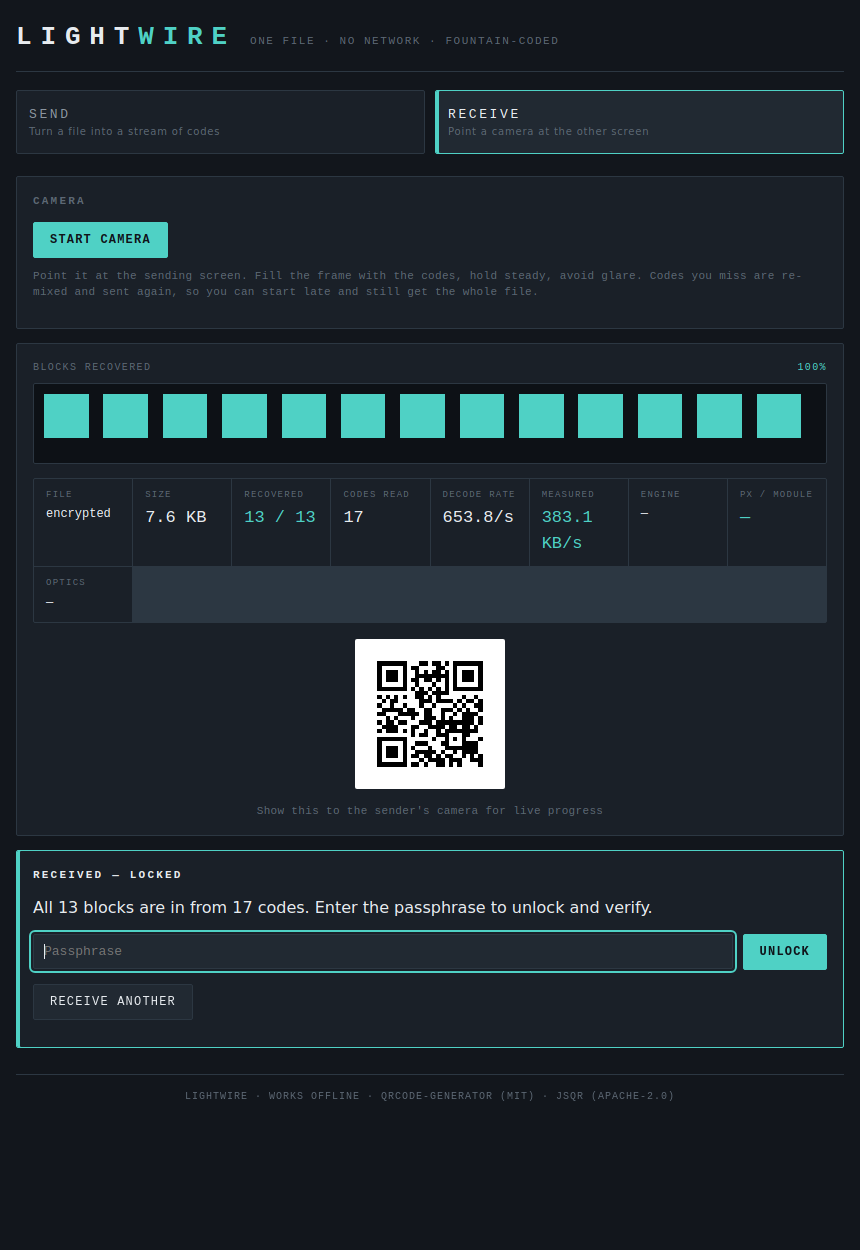
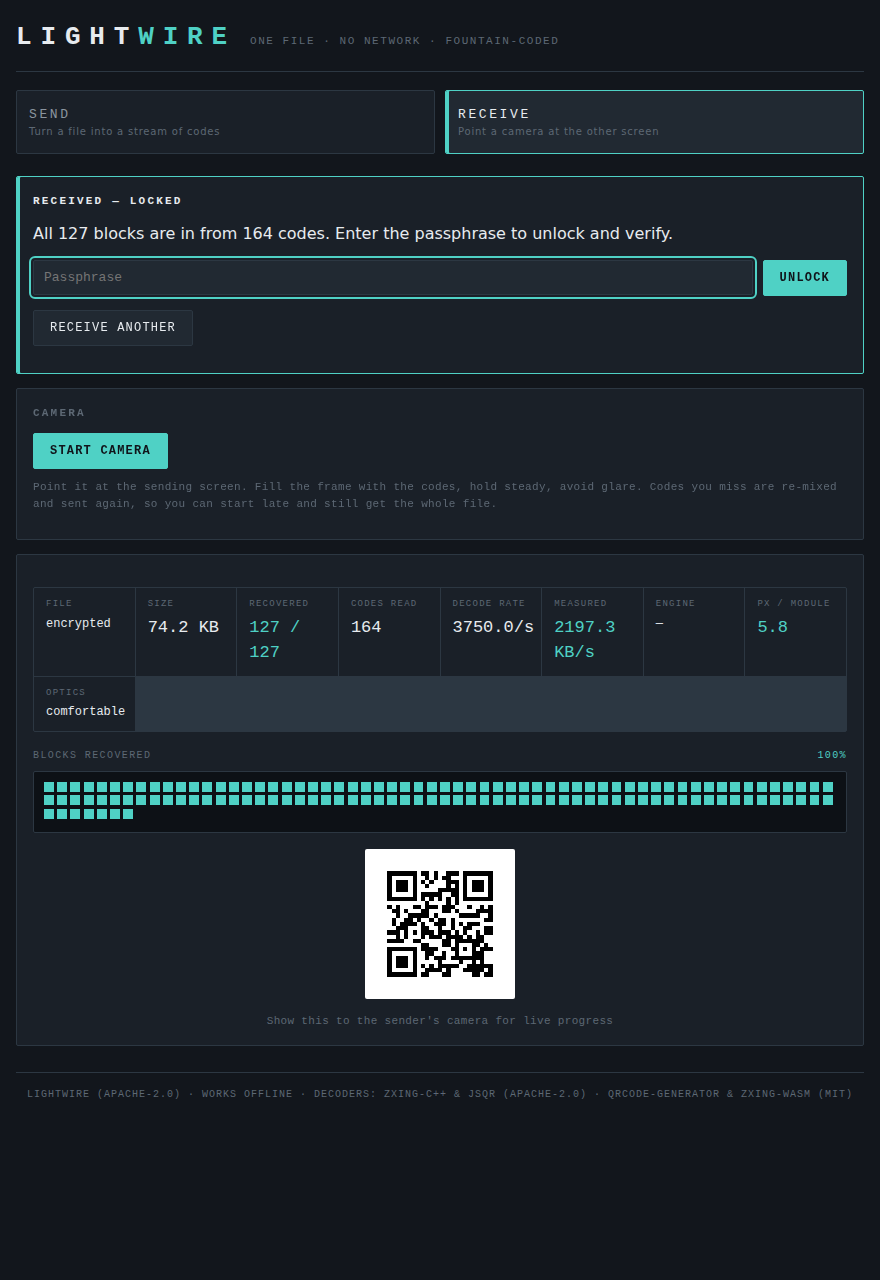
Put the result at the top of the receive screen
The outcome was the last thing on the page, below the grid you had been
staring at for the whole transfer. On a 12 MB file that runs for minutes and
nobody watches it the whole way, so:

- The result panel moves above everything, including the camera panel.
- Completing scrolls the page to it and writes the outcome into the tab
  title (Complete / Locked / Failed), which is the only thing visible to
  someone who alt-tabbed away. Reduced-motion preference is honoured.
- Inside the progress panel the numbers now come before the block grid, so
  file, size, rate and optics read first and the picture second.

Receiver screenshots regenerated to match, plus a mid-transfer one.

Claude-Session: https://claude.ai/code/session_019RYv14hn318AusjjKLAFws

diff --git a/dist/lightwire.html b/dist/lightwire.html
@@ -239,6 +239,22 @@ footer{font-family:var(--mono);font-size:10px;color:var(--dim);letter-spacing:.1
 
 <!-- ============ RECEIVE ============ -->
 <section id="recv" class="hidden">
+  <!-- Result first. A big transfer runs for minutes with nobody watching, so
+       the outcome must be the first thing on the page rather than something
+       you find by scrolling past the grid you were staring at. -->
+  <div class="panel hidden" id="donePanel">
+    <h2 id="doneTitle">Complete</h2>
+    <p id="doneMsg" style="margin:0 0 14px"></p>
+    <div class="row hidden" id="unlockRow" style="margin-bottom:14px">
+      <input type="password" id="rpass" placeholder="Passphrase" autocomplete="off" spellcheck="false" style="flex:1;min-width:170px;width:auto">
+      <button class="primary" id="unlock">Unlock</button>
+    </div>
+    <p class="note hidden" id="unlockMsg" style="margin:0 0 14px;color:var(--bad)"></p>
+    <button class="primary" id="save">Save file</button>
+    <button id="again">Receive another</button>
+    <p class="note" id="doneHash"></p>
+  </div>
+
   <div class="panel" id="camPanel">
     <h2>Camera</h2>
     <div class="row">
@@ -272,9 +288,7 @@ footer{font-family:var(--mono);font-size:10px;color:var(--dim);letter-spacing:.1
   </div>
 
   <div class="panel hidden" id="progPanel">
-    <div class="covlabel"><span>Blocks recovered</span><b id="covPct">0%</b></div>
-    <div class="coverage"><canvas id="cov"></canvas></div>
-    <dl class="readout" style="margin-top:14px">
+    <dl class="readout">
       <div class="cell"><dt>File</dt><dd id="rName" class="sm">—</dd></div>
       <div class="cell"><dt>Size</dt><dd id="rSize">—</dd></div>
       <div class="cell"><dt>Recovered</dt><dd id="rGot" class="hi">0</dd></div>
@@ -285,23 +299,12 @@ footer{font-family:var(--mono);font-size:10px;color:var(--dim);letter-spacing:.1
       <div class="cell"><dt>Px / module</dt><dd id="rPpm" class="hi">—</dd></div>
       <div class="cell"><dt>Optics</dt><dd id="rVerdict" class="sm">—</dd></div>
     </dl>
+    <div class="covlabel" style="margin-top:16px"><span>Blocks recovered</span><b id="covPct">0%</b></div>
+    <div class="coverage"><canvas id="cov"></canvas></div>
     <div class="stage" style="margin-top:16px">
       <div class="card small"><canvas id="ackQr"></canvas></div>
       <p class="note" style="text-align:center;margin:0">Show this to the sender's camera for live progress</p>
     </div>
-  </div>
-
-  <div class="panel hidden" id="donePanel">
-    <h2 id="doneTitle">Complete</h2>
-    <p id="doneMsg" style="margin:0 0 14px"></p>
-    <div class="row hidden" id="unlockRow" style="margin-bottom:14px">
-      <input type="password" id="rpass" placeholder="Passphrase" autocomplete="off" spellcheck="false" style="flex:1;min-width:170px;width:auto">
-      <button class="primary" id="unlock">Unlock</button>
-    </div>
-    <p class="note hidden" id="unlockMsg" style="margin:0 0 14px;color:var(--bad)"></p>
-    <button class="primary" id="save">Save file</button>
-    <button id="again">Receive another</button>
-    <p class="note" id="doneHash"></p>
   </div>
 </section>
 
@@ -14015,6 +14018,20 @@ function resetDoneUI(){
   $("doneHash").textContent="";
   $("rpass").value="";
   $("donePanel").classList.remove("done","fail");
+  document.title=BASE_TITLE;
+}
+/* A 12 MB file takes minutes and nobody watches the whole way. The result panel
+   sits at the top of the page on purpose, so pull the page up to it -- and put
+   the outcome in the tab title, which is the only thing visible to someone who
+   has alt-tabbed away. */
+var BASE_TITLE=document.title;
+function announceDone(tab){
+  document.title=tab+" — "+BASE_TITLE;
+  var p=$("donePanel");
+  if(!p.scrollIntoView) return;
+  var still=window.matchMedia&&window.matchMedia("(prefers-reduced-motion: reduce)").matches;
+  try{ p.scrollIntoView({behavior:still?"auto":"smooth",block:"start"}); }
+  catch(e){ p.scrollIntoView(true); }
 }
 
 function finish(){
@@ -14031,6 +14048,7 @@ function finish(){
     $("donePanel").classList.remove("hidden"); $("donePanel").classList.add("done");
     $("doneTitle").textContent="Received — locked";
     $("doneMsg").textContent="All "+dec.K+" blocks are in from "+readCount+" codes. Enter the passphrase to unlock and verify.";
+    announceDone("Locked");
     $("unlockRow").classList.remove("hidden");
     $("save").classList.add("hidden");
     $("rpass").focus();
@@ -14062,6 +14080,7 @@ function openPipeline(payload,flags,pass){
     $("donePanel").classList.remove("hidden"); $("donePanel").classList.add("done");
     $("doneTitle").textContent="Complete — checksum verified";
     $("doneMsg").textContent=out.meta.n+" · "+fmt(out.meta.s)+" · recovered from "+readCount+" codes.";
+    announceDone("Complete");
     $("rName").textContent=out.meta.n.length>18?out.meta.n.slice(0,16)+"…":out.meta.n;
     LW.sha256Hex(out.data).then(function(h){
       if(h&&result===out) $("doneHash").textContent="Fingerprint "+fp(h)+" — should match the sender's.";
@@ -14084,6 +14103,7 @@ function fail(msg){
   $("donePanel").classList.remove("hidden","done"); $("donePanel").classList.add("fail");
   $("doneTitle").textContent="Something is wrong";
   $("doneMsg").textContent=msg;
+  announceDone("Failed");
   $("save").classList.add("hidden");
   $("unlockRow").classList.add("hidden");
 }

diff --git a/src/template.html b/src/template.html
@@ -224,6 +224,22 @@ footer{font-family:var(--mono);font-size:10px;color:var(--dim);letter-spacing:.1
 
 <!-- ============ RECEIVE ============ -->
 <section id="recv" class="hidden">
+  <!-- Result first. A big transfer runs for minutes with nobody watching, so
+       the outcome must be the first thing on the page rather than something
+       you find by scrolling past the grid you were staring at. -->
+  <div class="panel hidden" id="donePanel">
+    <h2 id="doneTitle">Complete</h2>
+    <p id="doneMsg" style="margin:0 0 14px"></p>
+    <div class="row hidden" id="unlockRow" style="margin-bottom:14px">
+      <input type="password" id="rpass" placeholder="Passphrase" autocomplete="off" spellcheck="false" style="flex:1;min-width:170px;width:auto">
+      <button class="primary" id="unlock">Unlock</button>
+    </div>
+    <p class="note hidden" id="unlockMsg" style="margin:0 0 14px;color:var(--bad)"></p>
+    <button class="primary" id="save">Save file</button>
+    <button id="again">Receive another</button>
+    <p class="note" id="doneHash"></p>
+  </div>
+
   <div class="panel" id="camPanel">
     <h2>Camera</h2>
     <div class="row">
@@ -257,9 +273,7 @@ footer{font-family:var(--mono);font-size:10px;color:var(--dim);letter-spacing:.1
   </div>
 
   <div class="panel hidden" id="progPanel">
-    <div class="covlabel"><span>Blocks recovered</span><b id="covPct">0%</b></div>
-    <div class="coverage"><canvas id="cov"></canvas></div>
-    <dl class="readout" style="margin-top:14px">
+    <dl class="readout">
       <div class="cell"><dt>File</dt><dd id="rName" class="sm">—</dd></div>
       <div class="cell"><dt>Size</dt><dd id="rSize">—</dd></div>
       <div class="cell"><dt>Recovered</dt><dd id="rGot" class="hi">0</dd></div>
@@ -270,23 +284,12 @@ footer{font-family:var(--mono);font-size:10px;color:var(--dim);letter-spacing:.1
       <div class="cell"><dt>Px / module</dt><dd id="rPpm" class="hi">—</dd></div>
       <div class="cell"><dt>Optics</dt><dd id="rVerdict" class="sm">—</dd></div>
     </dl>
+    <div class="covlabel" style="margin-top:16px"><span>Blocks recovered</span><b id="covPct">0%</b></div>
+    <div class="coverage"><canvas id="cov"></canvas></div>
     <div class="stage" style="margin-top:16px">
       <div class="card small"><canvas id="ackQr"></canvas></div>
       <p class="note" style="text-align:center;margin:0">Show this to the sender's camera for live progress</p>
     </div>
-  </div>
-
-  <div class="panel hidden" id="donePanel">
-    <h2 id="doneTitle">Complete</h2>
-    <p id="doneMsg" style="margin:0 0 14px"></p>
-    <div class="row hidden" id="unlockRow" style="margin-bottom:14px">
-      <input type="password" id="rpass" placeholder="Passphrase" autocomplete="off" spellcheck="false" style="flex:1;min-width:170px;width:auto">
-      <button class="primary" id="unlock">Unlock</button>
-    </div>
-    <p class="note hidden" id="unlockMsg" style="margin:0 0 14px;color:var(--bad)"></p>
-    <button class="primary" id="save">Save file</button>
-    <button id="again">Receive another</button>
-    <p class="note" id="doneHash"></p>
   </div>
 </section>
 
@@ -1295,6 +1298,20 @@ function resetDoneUI(){
   $("doneHash").textContent="";
   $("rpass").value="";
   $("donePanel").classList.remove("done","fail");
+  document.title=BASE_TITLE;
+}
+/* A 12 MB file takes minutes and nobody watches the whole way. The result panel
+   sits at the top of the page on purpose, so pull the page up to it -- and put
+   the outcome in the tab title, which is the only thing visible to someone who
+   has alt-tabbed away. */
+var BASE_TITLE=document.title;
+function announceDone(tab){
+  document.title=tab+" — "+BASE_TITLE;
+  var p=$("donePanel");
+  if(!p.scrollIntoView) return;
+  var still=window.matchMedia&&window.matchMedia("(prefers-reduced-motion: reduce)").matches;
+  try{ p.scrollIntoView({behavior:still?"auto":"smooth",block:"start"}); }
+  catch(e){ p.scrollIntoView(true); }
 }
 
 function finish(){
@@ -1311,6 +1328,7 @@ function finish(){
     $("donePanel").classList.remove("hidden"); $("donePanel").classList.add("done");
     $("doneTitle").textContent="Received — locked";
     $("doneMsg").textContent="All "+dec.K+" blocks are in from "+readCount+" codes. Enter the passphrase to unlock and verify.";
+    announceDone("Locked");
     $("unlockRow").classList.remove("hidden");
     $("save").classList.add("hidden");
     $("rpass").focus();
@@ -1342,6 +1360,7 @@ function openPipeline(payload,flags,pass){
     $("donePanel").classList.remove("hidden"); $("donePanel").classList.add("done");
     $("doneTitle").textContent="Complete — checksum verified";
     $("doneMsg").textContent=out.meta.n+" · "+fmt(out.meta.s)+" · recovered from "+readCount+" codes.";
+    announceDone("Complete");
     $("rName").textContent=out.meta.n.length>18?out.meta.n.slice(0,16)+"…":out.meta.n;
     LW.sha256Hex(out.data).then(function(h){
       if(h&&result===out) $("doneHash").textContent="Fingerprint "+fp(h)+" — should match the sender's.";
@@ -1364,6 +1383,7 @@ function fail(msg){
   $("donePanel").classList.remove("hidden","done"); $("donePanel").classList.add("fail");
   $("doneTitle").textContent="Something is wrong";
   $("doneMsg").textContent=msg;
+  announceDone("Failed");
   $("save").classList.add("hidden");
   $("unlockRow").classList.add("hidden");
 }

diff --git a/screenshots/README.md b/screenshots/README.md
@@ -5,8 +5,9 @@ Captured from headless test runs (no real camera involved).
 | File | Shows |
 |---|---|
 | `shot3-send.png` | Sender: single-code mode, gzip + encryption active, fingerprint. |
-| `shot3-locked.png` | Receiver: all blocks in, awaiting passphrase. |
-| `shot3-done.png` | Receiver: unlocked, checksum verified, fingerprint shown. |
+| `shot3-progress.png` | Receiver mid-transfer: readout first, then the recovered-blocks grid. |
+| `shot3-locked.png` | Receiver: all blocks in, awaiting passphrase — the result panel sits above everything. |
+| `shot3-done.png` | Receiver: checksum verified, fingerprint shown, result at the top of the page. |
 | `shot4-grid.png` | Sender: 2×2 grid mode. |
 | `shot4-ludicrous.png` | Sender: 3×3 Ludicrous preset, worker pipeline running. |
 | `shot5-diag.png` | Receiver: engine, px/module and optics verdict readouts. |
